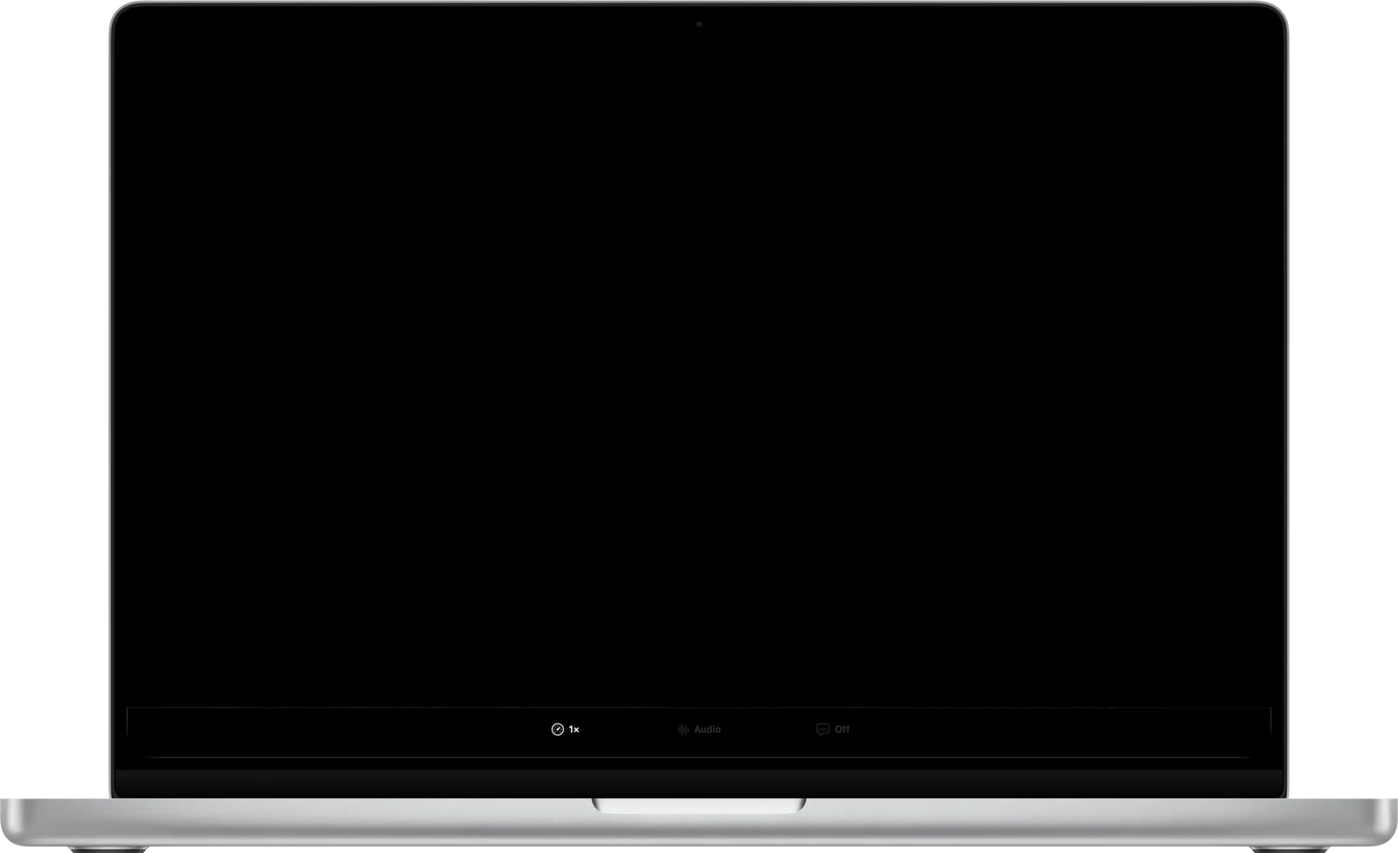
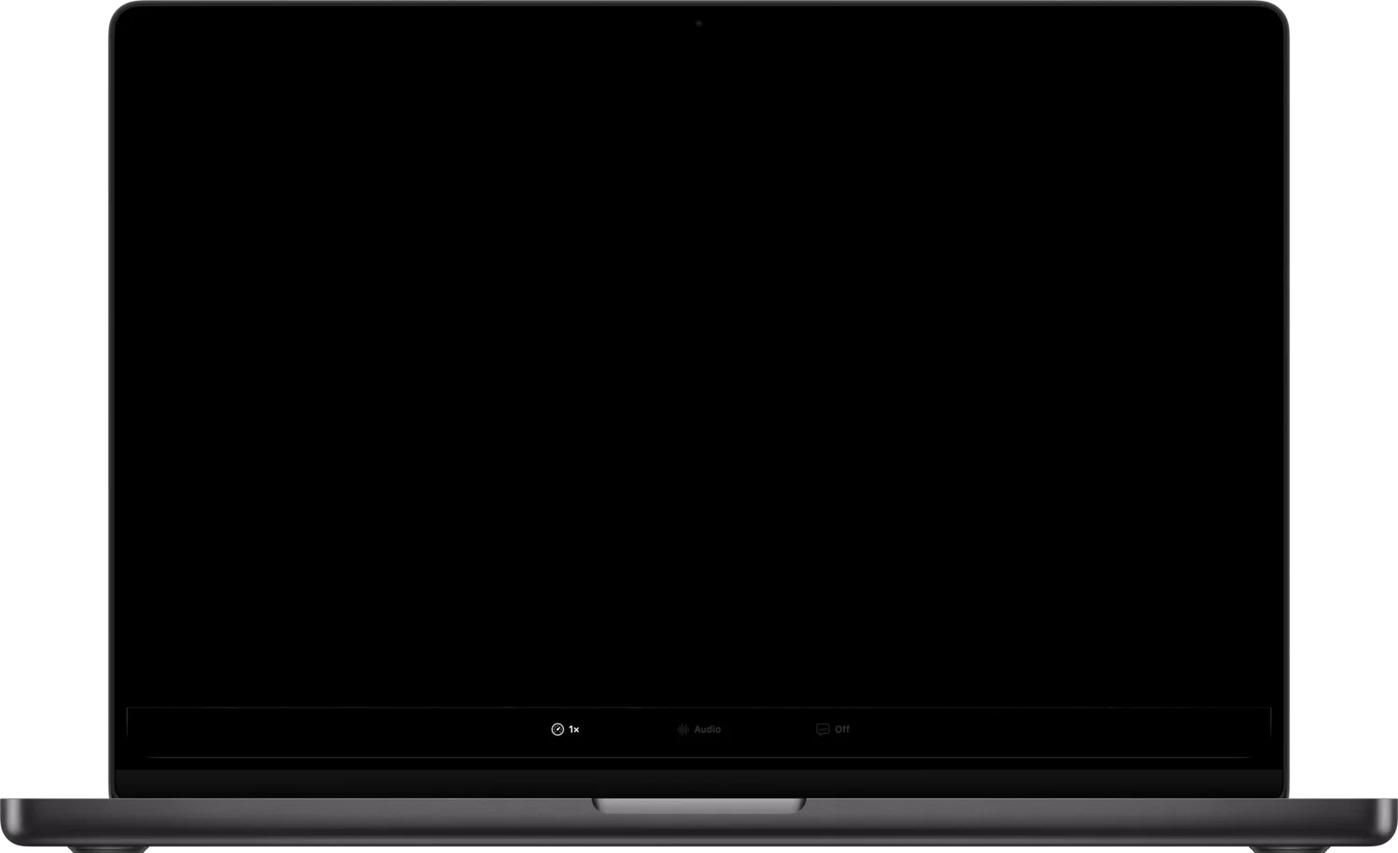
The hero on iPhone, iPad and Mac, with a Space Black Mac
The hero cycles iPhone, then iPad, then Mac. Films alternate each loop
and the server changes every two, so each device shows both films. The
first step reads "Watch on your iPad" on the iPad's turn.

The iPad is built from Apple's iPad frame with a live screen matched to
the app's iPad player captures: the film is aspect-fit with black bars;
the status bar is a crop of the capture; title and chips sit top left
with PiP and cast top right; the scrubber is at 88% with the 1x, audio
and subtitles row under it; the cast menu opens top right. Connecting
and casting work as on the iPhone (blurred backdrop, spinner in the
play button, cyan cast icon), with the beam from the iPad to the TV.
It sits at 2% / 43% / 41% of the scene, 0 / 40% / 54% on phones.

The full-screen Mac base is rebuilt in Space Black. The iPhone stays as
it was. The lede, og:description and the scene's label say iPhone, iPad
or Mac. The stylesheet moves to v20.

Changed region(s): [[0.0, 0.917, 1.0, 1.0], [0.092, 0.0, 0.92, 0.0306]]

diff --git a/index.html b/index.html
@@ -12,7 +12,7 @@
 <meta property="og:type" content="website">
 <meta property="og:site_name" content="Portage">
 <meta property="og:title" content="Portage — your films on any TV">
-<meta property="og:description" content="Your own Plex, Emby or Jellyfin library, cast in full quality from your iPhone or Mac to whatever screen is in the room.">
+<meta property="og:description" content="Your own Plex, Emby or Jellyfin library, cast in full quality from your iPhone, iPad or Mac to whatever screen is in the room.">
 <meta property="og:image" content="https://portage.rikard.dev/img/og.png">
 <meta property="og:url" content="https://portage.rikard.dev/">
 <meta name="twitter:card" content="summary_large_image">
@@ -20,7 +20,7 @@
 <link rel="icon" href="/img/favicon-192.png" sizes="192x192" type="image/png">
 <link rel="icon" href="/img/favicon.png" sizes="32x32">
 <link rel="apple-touch-icon" href="/img/icon-180.png">
-<link rel="stylesheet" href="/site.css?v=19">
+<link rel="stylesheet" href="/site.css?v=20">
 <script src="/ribbon.js?v=2" defer></script>
 <script type="application/ld+json">
 {
@@ -88,7 +88,7 @@
           <span class="chip plex on" data-server="Plex">Plex</span><span class="chip emby" data-server="Emby">Emby</span><span class="chip jellyfin" data-server="Jellyfin">Jellyfin</span>
         </div>
         <h1>Your films on <span class="glow">any TV.</span></h1>
-        <p class="lede">Your own Plex, Emby or Jellyfin library, cast in full quality from your iPhone or Mac to whatever screen is in the room.</p>
+        <p class="lede">Your own Plex, Emby or Jellyfin library, cast in full quality from your iPhone, iPad or Mac to whatever screen is in the room.</p>
         <div class="home-cta">
           <div class="cta"><a class="badge" href="https://apps.apple.com/app/apple-store/id6816252844?pt=119545920&ct=site-home&mt=8"><img src="/img/app-store-badge.svg" alt="Download on the App Store" width="120" height="40"></a><span class="platforms">For iPhone, iPad and Mac</span></div>
           <a class="tour-button" href="/img/tour.mp4?v=2" data-tour><i aria-hidden="true"></i><span>Watch the tour <small>0:30</small></span></a>
@@ -97,9 +97,9 @@
       </div>
       <div class="scene-col">
         <div class="scene-wrap">
-          <div class="scene s-cast s-play on-phone" id="scene" role="img" aria-label="Portage plays a film on an iPhone or a Mac, then casts it to the TV, which carries on from the same moment">
+          <div class="scene s-cast s-play on-phone" id="scene" role="img" aria-label="Portage plays a film on an iPhone, an iPad or a Mac, then casts it to the TV, which carries on from the same moment">
             <div class="sc-ambi" aria-hidden="true"><img src="/img/tos-poster.webp" alt="" width="1152" height="481"></div>
-            <svg class="sc-beam" viewBox="0 0 840 470" preserveAspectRatio="none" aria-hidden="true"><path class="sc-beam-phone" d="M232 280 C 250 220 300 190 370 180"/><path class="sc-beam-mac" d="M226 220 C 246 170 300 150 370 160"/></svg>
+            <svg class="sc-beam" viewBox="0 0 840 470" preserveAspectRatio="none" aria-hidden="true"><path class="sc-beam-phone" d="M232 280 C 250 220 300 190 370 180"/><path class="sc-beam-mac" d="M226 220 C 246 170 300 150 370 160"/><path class="sc-beam-ipad" d="M224 214 C 244 166 300 150 370 160"/></svg>
             <div class="sc-tv">
               <div class="sc-tv-screen">
                 <img class="sc-tv-poster" src="/img/tos-poster.webp" alt="" width="1152" height="481">
@@ -136,6 +136,29 @@
                 </div>
                 <div class="sc-menu"><small>Devices</small><span><svg><use href="#i-tv"/></svg>Kök Display</span><span class="sc-lr"><svg><use href="#i-tv"/></svg>Living Room TV</span><span class="dim"><svg><use href="#i-search"/></svg>Still searching…</span><hr><span><svg><use href="#i-globe"/></svg>Web browser…</span><span><svg><use href="#i-airplay"/></svg>AirPlay</span></div>
                 <span class="sc-island"></span>
+              </div>
+            </div>
+            <div class="sc-dev sc-ipad">
+              <img class="sc-frame" src="/img/ipad-base.webp" alt="" width="1500" height="1149">
+              <div class="sc-scr sc-scr-ipad">
+                <video class="sc-vid" src="/img/tos-loop.mp4" poster="/img/tos-poster.webp" muted playsinline preload="none"></video>
+                <div class="sc-back"><img src="/img/tos-poster.webp" alt="" width="1152" height="481"></div>
+                <div class="sc-chrome">
+                  <img class="sc-status" src="/img/ipad-status.webp" alt="" width="1376" height="38">
+                  <div class="sc-top">
+                    <span class="sc-chev"></span>
+                    <div class="sc-head"><b class="sc-title">Tears of Steel</b><span class="sc-badges"><em class="pink">MOV</em><em class="teal">H.264 · 720p</em><em class="brown">MP3</em></span></div>
+                  </div>
+                  <div class="sc-tools">
+                    <svg viewBox="0 0 24 24"><rect x="3" y="5" width="18" height="14" rx="2"/><rect x="12" y="11" width="7" height="6" rx="1"/></svg>
+                    <svg class="sc-cast"><use href="#i-tv"/></svg>
+                  </div>
+                  <div class="sc-mid"><span class="sc-skip">15</span><span class="sc-play"><i></i><svg class="sc-spin" viewBox="0 0 24 24"><circle cx="12" cy="12" r="9.5"/><circle class="arc" cx="12" cy="12" r="9.5" pathLength="100"/></svg></span><span class="sc-skip">15</span></div>
+                  <div class="sc-scrub"><i></i><span class="sc-t1">1:09</span><span class="sc-t2">-11:05</span></div>
+                  <div class="sc-opts"><span><svg><use href="#i-gauge"/></svg>1×</span><span><svg><use href="#i-wave"/></svg><span class="sc-audio">English · MP3 · Stereo</span></span><span class="sc-subs dim"><svg><use href="#i-bubble"/></svg><span>Subtitles</span></span></div>
+                  <span class="sc-grab"></span>
+                </div>
+                <div class="sc-menu"><small>Devices</small><span><svg><use href="#i-tv"/></svg>Kök Display</span><span class="sc-lr"><svg><use href="#i-tv"/></svg>Living Room TV</span><span class="dim"><svg><use href="#i-search"/></svg>Still searching…</span><hr><span><svg><use href="#i-globe"/></svg>Web browser…</span><span><svg><use href="#i-airplay"/></svg>AirPlay</span></div>
               </div>
             </div>
             <div class="sc-dev sc-mac">
@@ -403,6 +426,7 @@
       badges: [["blue", "MP4"], ["indigo", "HEVC · 1080p"], ["green", "AAC"]] }
   };
   const SERVERS = ["Plex", "Jellyfin", "Emby"];
+  const DEVICES = { phone: "iPhone", ipad: "iPad", mac: "Mac" };
   const STATES = [["watch", 2600], ["menu", 1300], ["pick", 700], ["conn", 1800], ["cast", 4300], ["end", 800]];
   const tv = scene.querySelector(".sc-tv-video");
   const pause = document.querySelector(".sc-pause");
@@ -413,12 +437,11 @@
   const media = (film) => ["/img/" + film + "-loop.mp4", "/img/" + film + "-poster.webp"];
 
   function setLoop(n) {
-    device = n % 2 ? "mac" : "phone";
-    const film = Math.floor(n / 2) % 2 ? "sintel" : "tos";
-    const F = FILMS[film], server = SERVERS[n % 3], [src, poster] = media(film);
+    device = Object.keys(DEVICES)[n % 3];
+    const film = n % 2 ? "sintel" : "tos";
+    const F = FILMS[film], server = SERVERS[Math.floor(n / 2) % 3], [src, poster] = media(film);
     const dev = scene.querySelector(".sc-" + device);
-    scene.classList.toggle("on-phone", device === "phone");
-    scene.classList.toggle("on-mac", device === "mac");
+    Object.keys(DEVICES).forEach((d) => scene.classList.toggle("on-" + d, d === device));
     if (device === "phone") dev.querySelector(".sc-frame").src = "/img/" + film + "-iphone.webp";
     dev.querySelector(".sc-title").textContent = F.title;
     dev.querySelector(".sc-badges").innerHTML = F.badges.map(([c, t]) => '<em class="' + c + '">' + t + "</em>").join("");
@@ -436,7 +459,7 @@
       if (v.getAttribute("src") !== src) { v.poster = poster; v.src = src; }
     });
     scene.querySelector(".sc-chip-text").textContent = F.title + ", from " + server;
-    steps[0].textContent = device === "phone" ? "Watch on your iPhone" : "Watch on your Mac";
+    steps[0].textContent = "Watch on your " + DEVICES[device];
     document.querySelectorAll(".servers [data-server]").forEach((chip) => {
       chip.classList.toggle("on", chip.dataset.server === server);
     });

diff --git a/src/pages/index.html b/src/pages/index.html
@@ -1,7 +1,7 @@
 title: Portage — your films on any TV, from Plex, Emby or Jellyfin
 description: Portage plays your own Plex, Emby or Jellyfin library on iPhone, iPad and Mac, and casts it to a Chromecast, a smart TV, AirPlay or any web browser, even a hotel's.
 og_title: Portage — your films on any TV
-og_description: Your own Plex, Emby or Jellyfin library, cast in full quality from your iPhone or Mac to whatever screen is in the room.
+og_description: Your own Plex, Emby or Jellyfin library, cast in full quality from your iPhone, iPad or Mac to whatever screen is in the room.
 lastmod: 2026-10-18
 
 <script type="application/ld+json">
@@ -52,7 +52,7 @@ lastmod: 2026-10-18
           <span class="chip plex on" data-server="Plex">Plex</span><span class="chip emby" data-server="Emby">Emby</span><span class="chip jellyfin" data-server="Jellyfin">Jellyfin</span>
         </div>
         <h1>Your films on <span class="glow">any TV.</span></h1>
-        <p class="lede">Your own Plex, Emby or Jellyfin library, cast in full quality from your iPhone or Mac to whatever screen is in the room.</p>
+        <p class="lede">Your own Plex, Emby or Jellyfin library, cast in full quality from your iPhone, iPad or Mac to whatever screen is in the room.</p>
         <div class="home-cta">
           {{badge}}
           <a class="tour-button" href="/img/tour.mp4?v=2" data-tour><i aria-hidden="true"></i><span>Watch the tour <small>0:30</small></span></a>
@@ -61,9 +61,9 @@ lastmod: 2026-10-18
       </div>
       <div class="scene-col">
         <div class="scene-wrap">
-          <div class="scene s-cast s-play on-phone" id="scene" role="img" aria-label="Portage plays a film on an iPhone or a Mac, then casts it to the TV, which carries on from the same moment">
+          <div class="scene s-cast s-play on-phone" id="scene" role="img" aria-label="Portage plays a film on an iPhone, an iPad or a Mac, then casts it to the TV, which carries on from the same moment">
             <div class="sc-ambi" aria-hidden="true"><img src="/img/tos-poster.webp" alt="" width="1152" height="481"></div>
-            <svg class="sc-beam" viewBox="0 0 840 470" preserveAspectRatio="none" aria-hidden="true"><path class="sc-beam-phone" d="M232 280 C 250 220 300 190 370 180"/><path class="sc-beam-mac" d="M226 220 C 246 170 300 150 370 160"/></svg>
+            <svg class="sc-beam" viewBox="0 0 840 470" preserveAspectRatio="none" aria-hidden="true"><path class="sc-beam-phone" d="M232 280 C 250 220 300 190 370 180"/><path class="sc-beam-mac" d="M226 220 C 246 170 300 150 370 160"/><path class="sc-beam-ipad" d="M224 214 C 244 166 300 150 370 160"/></svg>
             <div class="sc-tv">
               <div class="sc-tv-screen">
                 <img class="sc-tv-poster" src="/img/tos-poster.webp" alt="" width="1152" height="481">
@@ -100,6 +100,29 @@ lastmod: 2026-10-18
                 </div>
                 <div class="sc-menu"><small>Devices</small><span><svg><use href="#i-tv"/></svg>Kök Display</span><span class="sc-lr"><svg><use href="#i-tv"/></svg>Living Room TV</span><span class="dim"><svg><use href="#i-search"/></svg>Still searching…</span><hr><span><svg><use href="#i-globe"/></svg>Web browser…</span><span><svg><use href="#i-airplay"/></svg>AirPlay</span></div>
                 <span class="sc-island"></span>
+              </div>
+            </div>
+            <div class="sc-dev sc-ipad">
+              <img class="sc-frame" src="/img/ipad-base.webp" alt="" width="1500" height="1149">
+              <div class="sc-scr sc-scr-ipad">
+                <video class="sc-vid" src="/img/tos-loop.mp4" poster="/img/tos-poster.webp" muted playsinline preload="none"></video>
+                <div class="sc-back"><img src="/img/tos-poster.webp" alt="" width="1152" height="481"></div>
+                <div class="sc-chrome">
+                  <img class="sc-status" src="/img/ipad-status.webp" alt="" width="1376" height="38">
+                  <div class="sc-top">
+                    <span class="sc-chev"></span>
+                    <div class="sc-head"><b class="sc-title">Tears of Steel</b><span class="sc-badges"><em class="pink">MOV</em><em class="teal">H.264 · 720p</em><em class="brown">MP3</em></span></div>
+                  </div>
+                  <div class="sc-tools">
+                    <svg viewBox="0 0 24 24"><rect x="3" y="5" width="18" height="14" rx="2"/><rect x="12" y="11" width="7" height="6" rx="1"/></svg>
+                    <svg class="sc-cast"><use href="#i-tv"/></svg>
+                  </div>
+                  <div class="sc-mid"><span class="sc-skip">15</span><span class="sc-play"><i></i><svg class="sc-spin" viewBox="0 0 24 24"><circle cx="12" cy="12" r="9.5"/><circle class="arc" cx="12" cy="12" r="9.5" pathLength="100"/></svg></span><span class="sc-skip">15</span></div>
+                  <div class="sc-scrub"><i></i><span class="sc-t1">1:09</span><span class="sc-t2">-11:05</span></div>
+                  <div class="sc-opts"><span><svg><use href="#i-gauge"/></svg>1×</span><span><svg><use href="#i-wave"/></svg><span class="sc-audio">English · MP3 · Stereo</span></span><span class="sc-subs dim"><svg><use href="#i-bubble"/></svg><span>Subtitles</span></span></div>
+                  <span class="sc-grab"></span>
+                </div>
+                <div class="sc-menu"><small>Devices</small><span><svg><use href="#i-tv"/></svg>Kök Display</span><span class="sc-lr"><svg><use href="#i-tv"/></svg>Living Room TV</span><span class="dim"><svg><use href="#i-search"/></svg>Still searching…</span><hr><span><svg><use href="#i-globe"/></svg>Web browser…</span><span><svg><use href="#i-airplay"/></svg>AirPlay</span></div>
               </div>
             </div>
             <div class="sc-dev sc-mac">
@@ -360,6 +383,7 @@ lastmod: 2026-10-18
       badges: [["blue", "MP4"], ["indigo", "HEVC · 1080p"], ["green", "AAC"]] }
   };
   const SERVERS = ["Plex", "Jellyfin", "Emby"];
+  const DEVICES = { phone: "iPhone", ipad: "iPad", mac: "Mac" };
   const STATES = [["watch", 2600], ["menu", 1300], ["pick", 700], ["conn", 1800], ["cast", 4300], ["end", 800]];
   const tv = scene.querySelector(".sc-tv-video");
   const pause = document.querySelector(".sc-pause");
@@ -370,12 +394,11 @@ lastmod: 2026-10-18
   const media = (film) => ["/img/" + film + "-loop.mp4", "/img/" + film + "-poster.webp"];
 
   function setLoop(n) {
-    device = n % 2 ? "mac" : "phone";
-    const film = Math.floor(n / 2) % 2 ? "sintel" : "tos";
-    const F = FILMS[film], server = SERVERS[n % 3], [src, poster] = media(film);
+    device = Object.keys(DEVICES)[n % 3];
+    const film = n % 2 ? "sintel" : "tos";
+    const F = FILMS[film], server = SERVERS[Math.floor(n / 2) % 3], [src, poster] = media(film);
     const dev = scene.querySelector(".sc-" + device);
-    scene.classList.toggle("on-phone", device === "phone");
-    scene.classList.toggle("on-mac", device === "mac");
+    Object.keys(DEVICES).forEach((d) => scene.classList.toggle("on-" + d, d === device));
     if (device === "phone") dev.querySelector(".sc-frame").src = "/img/" + film + "-iphone.webp";
     dev.querySelector(".sc-title").textContent = F.title;
     dev.querySelector(".sc-badges").innerHTML = F.badges.map(([c, t]) => '<em class="' + c + '">' + t + "</em>").join("");
@@ -393,7 +416,7 @@ lastmod: 2026-10-18
       if (v.getAttribute("src") !== src) { v.poster = poster; v.src = src; }
     });
     scene.querySelector(".sc-chip-text").textContent = F.title + ", from " + server;
-    steps[0].textContent = device === "phone" ? "Watch on your iPhone" : "Watch on your Mac";
+    steps[0].textContent = "Watch on your " + DEVICES[device];
     document.querySelectorAll(".servers [data-server]").forEach((chip) => {
       chip.classList.toggle("on", chip.dataset.server === server);
     });

diff --git a/site.css b/site.css
@@ -380,7 +380,7 @@ a.card:hover { text-decoration: none; border-color: color-mix(in srgb, var(--tin
 
 .sc-beam { position: absolute; inset: 0; width: 100%; height: 100%; z-index: 4; pointer-events: none; overflow: visible; }
 .sc-beam path { fill: none; stroke: var(--accent); stroke-width: 3; stroke-linecap: round; stroke-dasharray: 1 11; vector-effect: non-scaling-stroke; filter: drop-shadow(0 0 5px rgba(25,216,230,.9)); opacity: 0; transition: opacity .5s ease; }
-.scene.s-conn.on-phone .sc-beam-phone, .scene.s-conn.on-mac .sc-beam-mac { opacity: 1; animation: sc-beam .8s linear infinite; }
+.scene.s-conn.on-phone .sc-beam-phone, .scene.s-conn.on-mac .sc-beam-mac, .scene.s-conn.on-ipad .sc-beam-ipad { opacity: 1; animation: sc-beam .8s linear infinite; }
 @keyframes sc-beam { to { stroke-dashoffset: -24; } }
 
 .sc-tv { position: absolute; left: 0; top: 0; width: 100%; z-index: 1; }
@@ -420,7 +420,8 @@ a.card:hover { text-decoration: none; border-color: color-mix(in srgb, var(--tin
 .sc-dev { position: absolute; z-index: 3; opacity: 0; pointer-events: none; transition: opacity .7s ease; }
 .sc-phone { left: 3%; top: 61%; width: 44%; }
 .sc-mac { left: 1%; top: 47%; width: 48%; }
-.scene.on-phone .sc-phone, .scene.on-mac .sc-mac { opacity: 1; }
+.sc-ipad { left: 2%; top: 43%; width: 41%; }
+.scene.on-phone .sc-phone, .scene.on-mac .sc-mac, .scene.on-ipad .sc-ipad { opacity: 1; }
 .sc-frame { width: 100%; height: auto; }
 .sc-scr {
   position: absolute; overflow: hidden; container-type: inline-size; background: #000; color: #fff;
@@ -428,6 +429,29 @@ a.card:hover { text-decoration: none; border-color: color-mix(in srgb, var(--tin
 }
 .sc-scr-phone { left: 2.222%; top: 5.215%; width: 95.61%; height: 89.8%; border-radius: 6.51% / 14.14%; }
 .sc-scr-mac { left: 9.067%; top: 5.131%; width: 81.867%; height: 77.729%; }
+.sc-scr-ipad { left: 3.202%; top: 4.224%; width: 93.733%; height: 91.774%; border-radius: 1.93% / 2.57%; }
+.sc-scr-ipad .sc-vid { object-fit: contain; }
+.sc-status { position: absolute; left: 0; top: 0; width: 100%; height: auto; }
+.sc-scr-ipad .sc-top { left: 2.44cqw; top: 3cqw; gap: 1.93cqw; }
+.sc-scr-ipad .sc-chev { width: .9cqw; height: .9cqw; border-width: .22cqw; transform: translateY(.59cqw) rotate(45deg); }
+.sc-scr-ipad .sc-head { gap: .18cqw; }
+.sc-scr-ipad .sc-title { font-size: 1.09cqw; }
+.sc-scr-ipad .sc-badges { gap: .44cqw; }
+.sc-scr-ipad .sc-badges em { font-size: .8cqw; padding: .12cqw .45cqw; border-radius: .4cqw; }
+.sc-scr-ipad .sc-tools { right: 1.3cqw; top: 3.12cqw; gap: 1.12cqw; }
+.sc-scr-ipad .sc-tools svg { width: 2.4cqw; height: 2.4cqw; }
+.sc-scr-ipad .sc-mid { top: 50%; gap: 4.34cqw; }
+.sc-scr-ipad .sc-skip { width: 2.4cqw; height: 2.4cqw; font-size: 1cqw; border-width: .2cqw; }
+.sc-scr-ipad .sc-play { width: 5.52cqw; height: 5.52cqw; border-radius: 50%; background: var(--accent); }
+.sc-scr-ipad .sc-play i { width: 1.82cqw; height: 2.03cqw; border-left: .6cqw solid #0B0D22; border-right: .6cqw solid #0B0D22; }
+.sc-scr-ipad .sc-spin { width: 2.3cqw; height: 2.3cqw; }
+.sc-scr-ipad .sc-scrub { left: 1.45%; right: 1.45%; top: 88.4%; height: .22cqw; }
+.sc-scr-ipad .sc-scrub > i::after { width: 1.16cqw; height: 1.16cqw; right: -.58cqw; }
+.sc-scr-ipad .sc-t1, .sc-scr-ipad .sc-t2 { top: 1.3cqw; font-size: .87cqw; }
+.sc-scr-ipad .sc-opts { left: 1.45%; right: 1.45%; top: 92.6%; display: grid; grid-template-columns: repeat(3, 1fr); justify-items: center; }
+.sc-scr-ipad .sc-opts > span { gap: .15cqw; font-size: .8cqw; }
+.sc-scr-ipad .sc-opts svg { width: 1.6cqw; height: 1.6cqw; }
+.sc-grab { position: absolute; right: .4cqw; bottom: .4cqw; width: 1.6cqw; height: 1.6cqw; box-sizing: border-box; border-right: .22cqw solid rgba(255,255,255,.45); border-bottom: .22cqw solid rgba(255,255,255,.45); border-bottom-right-radius: 100%; }
 .sc-vid { position: absolute; inset: 0; width: 100%; height: 100%; object-fit: cover; background: #000; }
 .sc-scr-mac .sc-vid { object-fit: contain; }
 .sc-back { position: absolute; inset: 0; overflow: hidden; background: #0B0D22; opacity: 0; transition: opacity .5s ease; }
@@ -504,16 +528,21 @@ a.card:hover { text-decoration: none; border-color: color-mix(in srgb, var(--tin
 }
 .sc-scr-phone .sc-menu { left: 65.3%; top: 2.7%; width: 26%; padding: 1.5cqw 1.7cqw; border-radius: 2.5cqw; gap: .2cqw; }
 .sc-scr-mac .sc-menu { left: auto; right: .6cqw; top: 2.4cqw; width: 13.5cqw; padding: .7cqw .8cqw; border-radius: .8cqw; background: rgba(44,47,54,.97); }
+.sc-scr-ipad .sc-menu { right: 1.5%; top: 3.2cqw; width: 16.1cqw; padding: .93cqw 1cqw .5cqw; border-radius: 1.6cqw; }
 .scene.s-menu .sc-menu, .scene.s-pick .sc-menu { opacity: 1; transform: none; }
 .sc-menu small { color: rgba(255,255,255,.5); font-size: 1.3cqw; margin-bottom: .6cqw; }
 .sc-scr-mac .sc-menu small { font-size: .7cqw; margin-bottom: .3cqw; }
+.sc-scr-ipad .sc-menu small { font-size: .87cqw; margin-bottom: .43cqw; }
 .sc-menu > span { display: flex; align-items: center; gap: 1.4cqw; font-size: 1.75cqw; padding: .9cqw .6cqw; border-radius: 1cqw; }
 .sc-scr-mac .sc-menu > span { font-size: .9cqw; gap: .7cqw; padding: .35cqw .4cqw; border-radius: .4cqw; }
+.sc-scr-ipad .sc-menu > span { font-size: 1.09cqw; gap: .73cqw; padding: .58cqw .45cqw; border-radius: .7cqw; }
 .sc-menu svg { width: 2.2cqw; height: 2.2cqw; flex: none; stroke: var(--accent); stroke-width: 1.7; }
 .sc-scr-mac .sc-menu svg { width: 1.1cqw; height: 1.1cqw; stroke: #fff; }
+.sc-scr-ipad .sc-menu svg { width: 1.6cqw; height: 1.6cqw; }
+.sc-scr-ipad .sc-menu hr { margin: .6cqw .45cqw; }
 .sc-menu .dim { color: rgba(255,255,255,.45); }
 .sc-menu hr { border: 0; height: 1px; background: rgba(255,255,255,.14); margin: .5cqw 0; }
-.scene.s-pick .sc-scr-phone .sc-lr { background: rgba(25,216,230,.22); }
+.scene.s-pick .sc-scr-phone .sc-lr, .scene.s-pick .sc-scr-ipad .sc-lr { background: rgba(25,216,230,.22); }
 .scene.s-pick .sc-scr-mac .sc-lr { background: #2f6bd6; }
 .sc-island { position: absolute; left: 1.743%; top: 46.21%; width: 2.324%; height: 14.39%; border-radius: 999px; background: #000; }
 .sc-pill {
@@ -642,6 +671,7 @@ a.card:hover { text-decoration: none; border-color: color-mix(in srgb, var(--tin
   .scene { aspect-ratio: 420 / 300; }
   .sc-phone { left: 0; top: 58%; width: 56%; }
   .sc-mac { left: 0; top: 46%; width: 60%; }
+  .sc-ipad { left: 0; top: 40%; width: 54%; }
   .sc-pause { left: auto; right: 28px; }
   .usps { grid-template-columns: repeat(2, minmax(0, 1fr)); gap: 8px; margin-top: 28px; }
   .usps li { padding: 12px; }

diff --git a/cast-to-car/index.html b/cast-to-car/index.html
@@ -20,7 +20,7 @@
 <link rel="icon" href="/img/favicon-192.png" sizes="192x192" type="image/png">
 <link rel="icon" href="/img/favicon.png" sizes="32x32">
 <link rel="apple-touch-icon" href="/img/icon-180.png">
-<link rel="stylesheet" href="/site.css?v=19">
+<link rel="stylesheet" href="/site.css?v=20">
 <script src="/ribbon.js?v=2" defer></script>
 <script type="application/ld+json">
 {

diff --git a/emby/index.html b/emby/index.html
@@ -20,7 +20,7 @@
 <link rel="icon" href="/img/favicon-192.png" sizes="192x192" type="image/png">
 <link rel="icon" href="/img/favicon.png" sizes="32x32">
 <link rel="apple-touch-icon" href="/img/icon-180.png">
-<link rel="stylesheet" href="/site.css?v=19">
+<link rel="stylesheet" href="/site.css?v=20">
 <script src="/ribbon.js?v=2" defer></script>
 <script type="application/ld+json">
 {

diff --git a/jellyfin/index.html b/jellyfin/index.html
@@ -20,7 +20,7 @@
 <link rel="icon" href="/img/favicon-192.png" sizes="192x192" type="image/png">
 <link rel="icon" href="/img/favicon.png" sizes="32x32">
 <link rel="apple-touch-icon" href="/img/icon-180.png">
-<link rel="stylesheet" href="/site.css?v=19">
+<link rel="stylesheet" href="/site.css?v=20">
 <script src="/ribbon.js?v=2" defer></script>
 <script type="application/ld+json">
 {

diff --git a/plex/index.html b/plex/index.html
@@ -20,7 +20,7 @@
 <link rel="icon" href="/img/favicon-192.png" sizes="192x192" type="image/png">
 <link rel="icon" href="/img/favicon.png" sizes="32x32">
 <link rel="apple-touch-icon" href="/img/icon-180.png">
-<link rel="stylesheet" href="/site.css?v=19">
+<link rel="stylesheet" href="/site.css?v=20">
 <script src="/ribbon.js?v=2" defer></script>
 <script type="application/ld+json">
 {

diff --git a/xbox/index.html b/xbox/index.html
@@ -20,7 +20,7 @@
 <link rel="icon" href="/img/favicon-192.png" sizes="192x192" type="image/png">
 <link rel="icon" href="/img/favicon.png" sizes="32x32">
 <link rel="apple-touch-icon" href="/img/icon-180.png">
-<link rel="stylesheet" href="/site.css?v=19">
+<link rel="stylesheet" href="/site.css?v=20">
 <script src="/ribbon.js?v=2" defer></script>
 <script type="application/ld+json">
 {

diff --git a/src/layout.html b/src/layout.html
@@ -12,7 +12,7 @@
 <link rel="icon" href="/img/favicon-192.png" sizes="192x192" type="image/png">
 <link rel="icon" href="/img/favicon.png" sizes="32x32">
 <link rel="apple-touch-icon" href="/img/icon-180.png">
-<link rel="stylesheet" href="/site.css?v=19">
+<link rel="stylesheet" href="/site.css?v=20">
 <script src="/ribbon.js?v=2" defer></script>
 {{head}}</head>
 <body{{body}}>

diff --git a/guides/hotel-tv/index.html b/guides/hotel-tv/index.html
@@ -20,7 +20,7 @@
 <link rel="icon" href="/img/favicon-192.png" sizes="192x192" type="image/png">
 <link rel="icon" href="/img/favicon.png" sizes="32x32">
 <link rel="apple-touch-icon" href="/img/icon-180.png">
-<link rel="stylesheet" href="/site.css?v=19">
+<link rel="stylesheet" href="/site.css?v=20">
 <script src="/ribbon.js?v=2" defer></script>
 </head>
 <body>

diff --git a/guides/jellyfin-chromecast-iphone/index.html b/guides/jellyfin-chromecast-iphone/index.html
@@ -20,7 +20,7 @@
 <link rel="icon" href="/img/favicon-192.png" sizes="192x192" type="image/png">
 <link rel="icon" href="/img/favicon.png" sizes="32x32">
 <link rel="apple-touch-icon" href="/img/icon-180.png">
-<link rel="stylesheet" href="/site.css?v=19">
+<link rel="stylesheet" href="/site.css?v=20">
 <script src="/ribbon.js?v=2" defer></script>
 </head>
 <body>

diff --git a/guides/mkv-iphone-mac/index.html b/guides/mkv-iphone-mac/index.html
@@ -20,7 +20,7 @@
 <link rel="icon" href="/img/favicon-192.png" sizes="192x192" type="image/png">
 <link rel="icon" href="/img/favicon.png" sizes="32x32">
 <link rel="apple-touch-icon" href="/img/icon-180.png">
-<link rel="stylesheet" href="/site.css?v=19">
+<link rel="stylesheet" href="/site.css?v=20">
 <script src="/ribbon.js?v=2" defer></script>
 </head>
 <body>
